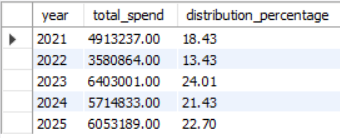
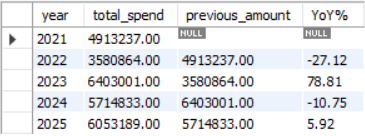
Update readme

diff --git a/README.md b/README.md
@@ -64,9 +64,11 @@ Major data quality issues identified:
 
 ---
 
+## 🔄 Phase 2 — Data Analysis
+
 ## 📊 Key Analyses 
 
-### 1⃣ Spend by Year
+### 1⃣ Spend by Year `(YoY%)`
 
 ![Spend by Year](EDA_images/spend_by_year.png)
 
@@ -92,13 +94,20 @@ Major data quality issues identified:
 
 Even with limited clean data, the analysis revealed clear patterns:
 
+* **Year Over Year (YoY%) Analysis**
+
+  * 2022 shows sharp contraction (-27%).
+  * 2023 reflects aggressive expansion (+79%).
+  * 2024–2025 indicate correction and stabilization.
+  * Suggests recovery after cost-cutting followed by improved financial control.
+
 * **Employee-related spend dominates**
 
   * Meals + Travel together form the majority of valid spend.
 
 * **High vendor concentration risk**
 
-  * Out of three vendors, Dell alone has 42% of total spending.
+  * Out of three vendors, Dell alone has **`42%`** of total spending.
   * Indicates dependency risk and weak vendor diversification.
 
 * **Weak approval governance**
